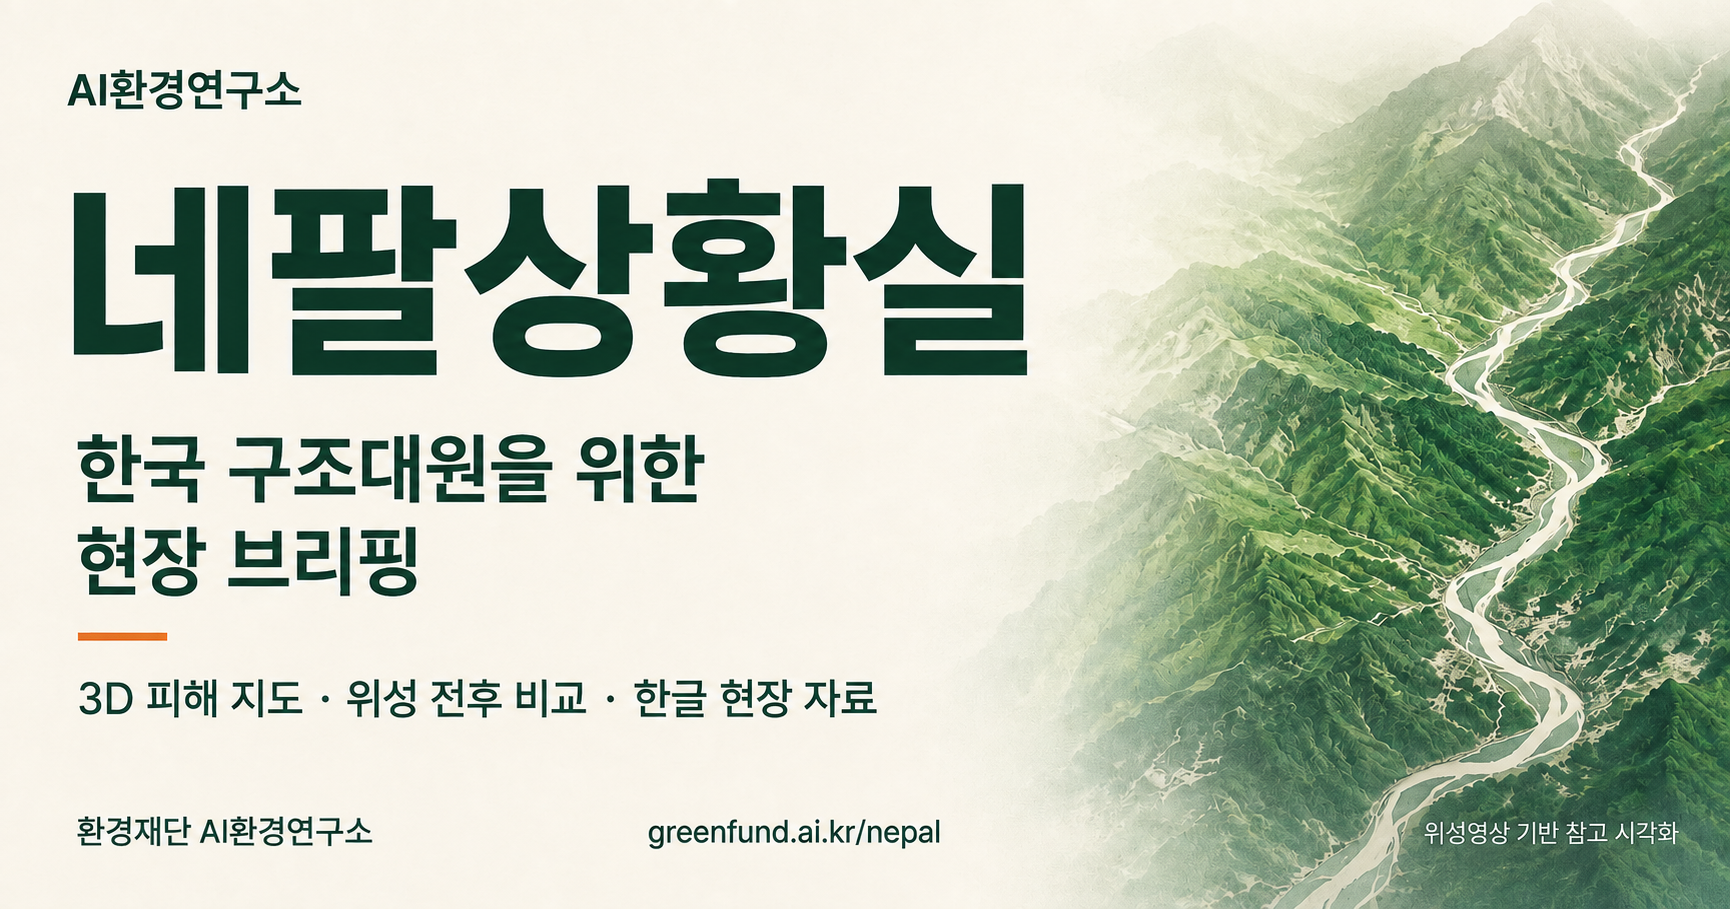
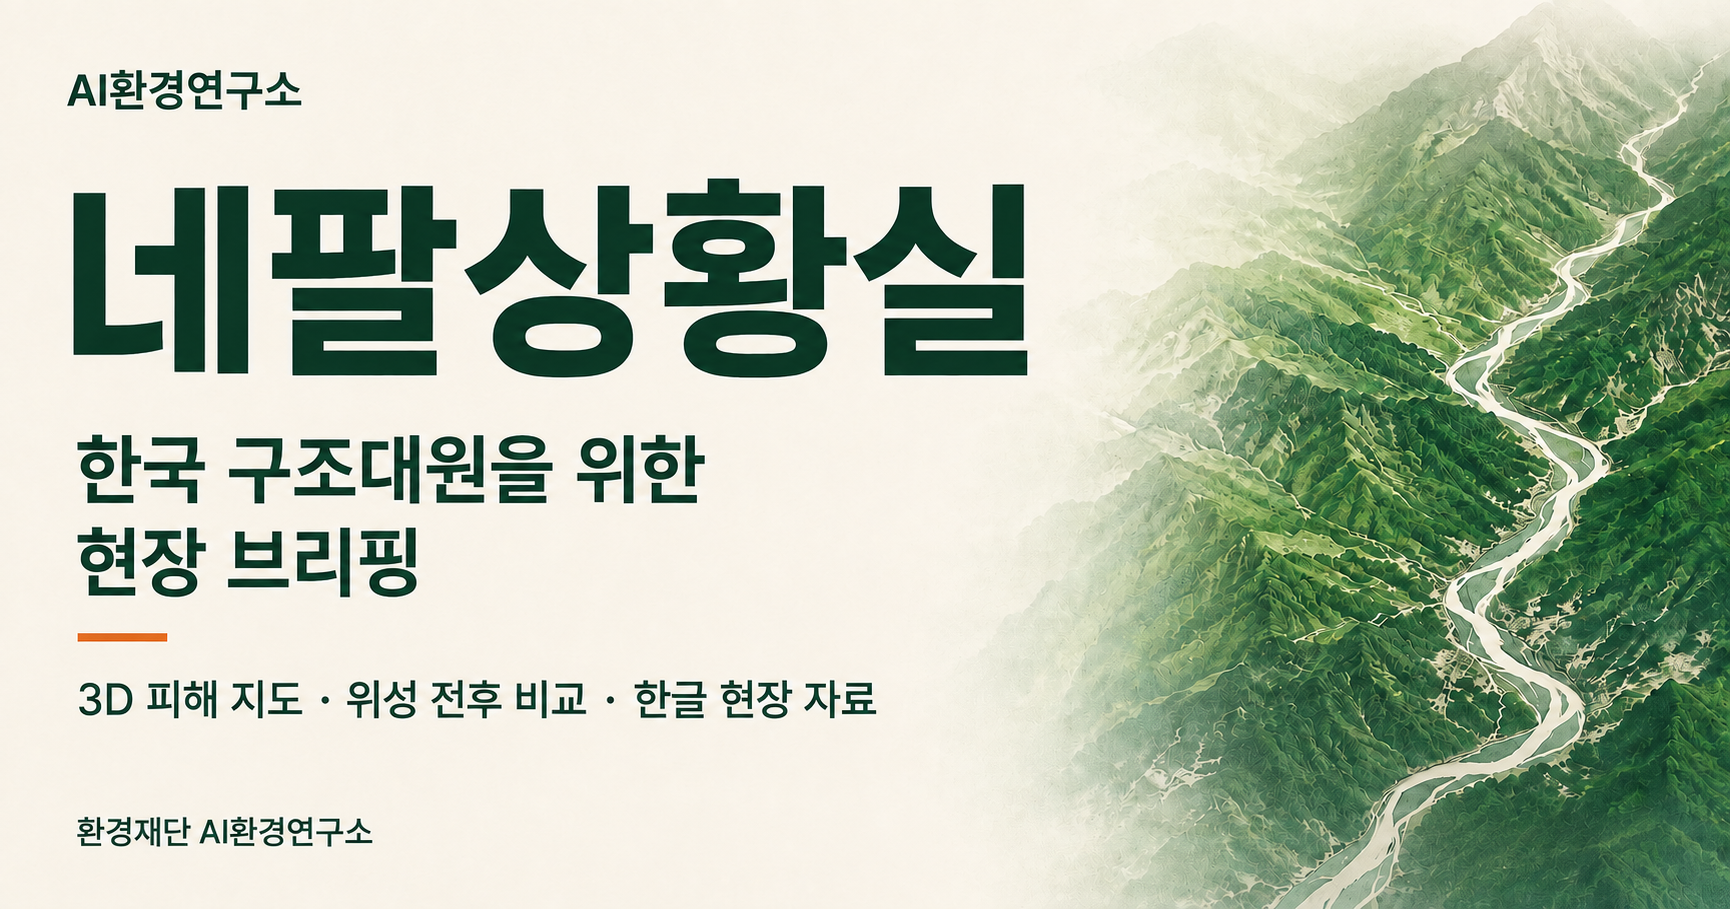
Add square Nepal thumbnail and remove image URL captions

diff --git a/greenproof/web/nepal/index.html b/greenproof/web/nepal/index.html
@@ -13,8 +13,8 @@
   <meta property="og:title" content="네팔상황실 | 한국 구조대원 현장 브리핑">
   <meta property="og:description" content="3D 피해 지도와 위성 전후 비교, 지역별 접근·위험·의료·연락 정보를 한글로 확인하세요. AI환경연구소.">
   <meta property="og:url" content="https://greenfund.ai.kr/nepal/">
-  <meta property="og:image" content="https://greenfund.ai.kr/nepal/og.png?v=2">
-  <meta property="og:image:secure_url" content="https://greenfund.ai.kr/nepal/og.png?v=2">
+  <meta property="og:image" content="https://greenfund.ai.kr/nepal/og.png?v=3">
+  <meta property="og:image:secure_url" content="https://greenfund.ai.kr/nepal/og.png?v=3">
   <meta property="og:image:type" content="image/png">
   <meta property="og:image:width" content="1730">
   <meta property="og:image:height" content="909">
@@ -22,7 +22,7 @@
   <meta name="twitter:card" content="summary_large_image">
   <meta name="twitter:title" content="네팔상황실 | 한국 구조대원 현장 브리핑">
   <meta name="twitter:description" content="3D 피해 지도와 위성 전후 비교, 지역별 접근·위험·의료·연락 정보를 한글로 확인하세요. AI환경연구소.">
-  <meta name="twitter:image" content="https://greenfund.ai.kr/nepal/og.png?v=2">
+  <meta name="twitter:image" content="https://greenfund.ai.kr/nepal/og.png?v=3">
   <meta name="twitter:image:alt" content="네팔상황실, 한국 구조대원을 위한 현장 브리핑이라는 문구와 산악 하천 참고 시각화.">
   <link rel="stylesheet" href="./style.css?v=3">
   <link rel="stylesheet" href="./response.css?v=3">

diff --git a/docs/integrations/greenfund-org-og-head.html b/docs/integrations/greenfund-org-og-head.html
@@ -8,8 +8,8 @@
 <meta property="og:title" content="AI환경연구소 | 환경재단">
 <meta property="og:description" content="AI와 공개 데이터로 환경 현장을 살펴봅니다. 네팔상황실, 맹그로브 성장 기록, 우리 동네 온실가스 배출을 한곳에서 확인하세요.">
 <meta property="og:url" content="https://greenfund.org/about/ai-environment-institute">
-<meta property="og:image" content="https://greenfund.ai.kr/nepal/og.png?v=2">
-<meta property="og:image:secure_url" content="https://greenfund.ai.kr/nepal/og.png?v=2">
+<meta property="og:image" content="https://greenfund.ai.kr/nepal/og.png?v=3">
+<meta property="og:image:secure_url" content="https://greenfund.ai.kr/nepal/og.png?v=3">
 <meta property="og:image:type" content="image/png">
 <meta property="og:image:width" content="1730">
 <meta property="og:image:height" content="909">
@@ -17,5 +17,5 @@
 <meta name="twitter:card" content="summary_large_image">
 <meta name="twitter:title" content="AI환경연구소 | 환경재단">
 <meta name="twitter:description" content="AI와 공개 데이터로 환경 현장을 살펴봅니다. 네팔상황실, 맹그로브 성장 기록, 우리 동네 온실가스 배출을 한곳에서 확인하세요.">
-<meta name="twitter:image" content="https://greenfund.ai.kr/nepal/og.png?v=2">
+<meta name="twitter:image" content="https://greenfund.ai.kr/nepal/og.png?v=3">
 <meta name="twitter:image:alt" content="한국 구조대원을 위한 네팔상황실 안내와 산악 하천 참고 시각화">

diff --git a/greenproof/web/index.html b/greenproof/web/index.html
@@ -12,13 +12,13 @@
 <meta property="og:title" content="네팔상황실 | 한국 구조대원 현장 브리핑">
 <meta property="og:description" content="3D 피해 지도와 위성 전후 비교, 지역별 접근·위험·의료·연락 정보를 한글로 확인하세요.">
 <meta property="og:url" content="https://greenfund.ai.kr/nepal/">
-<meta property="og:image" content="https://greenfund.ai.kr/nepal/og.png?v=2">
+<meta property="og:image" content="https://greenfund.ai.kr/nepal/og.png?v=3">
 <meta property="og:image:width" content="1730">
 <meta property="og:image:height" content="909">
 <meta name="twitter:card" content="summary_large_image">
 <meta name="twitter:title" content="네팔상황실 | 한국 구조대원 현장 브리핑">
 <meta name="twitter:description" content="3D 피해 지도와 위성 전후 비교, 지역별 접근·위험·의료·연락 정보를 한글로 확인하세요.">
-<meta name="twitter:image" content="https://greenfund.ai.kr/nepal/og.png?v=2">
+<meta name="twitter:image" content="https://greenfund.ai.kr/nepal/og.png?v=3">
 </head>
 <body><p><a href="/nepal/">네팔상황실 열기</a></p></body>
 </html>

diff --git a/tools/check_web.py b/tools/check_web.py
@@ -31,7 +31,7 @@ redirects = (WEB/'_redirects').read_text(encoding='utf-8')
 assert re.search(r'^/ /nepal/ 302$', redirects, re.M)
 assert 'http-equiv="refresh" content="0; url=/nepal/"' in entry
 assert 'href="https://greenfund.ai.kr/nepal/"' in entry
-assert 'https://greenfund.ai.kr/nepal/og.png?v=2' in entry
+assert 'https://greenfund.ai.kr/nepal/og.png?v=3' in entry
 assert '<script' not in entry and '<header' not in entry
 print('PASS homepage redirects directly to Nepal, with matching static fallback and sharing image')
 

diff --git a/docs/nepal-social-preview.md b/docs/nepal-social-preview.md
@@ -3,19 +3,32 @@
 - 적용 페이지: https://greenfund.ai.kr/nepal/
 - 사이트 명칭: AI환경연구소 (2026-09-06 웹 명칭과 공유 이미지 문구 변경)
 - 이미지: `greenproof/web/nepal/og.png` (1730 × 909, PNG)
-- 공개 이미지 URL: https://greenfund.ai.kr/nepal/og.png?v=2
+- 공개 이미지 URL: https://greenfund.ai.kr/nepal/og.png?v=3
 - OG/X 제목: 네팔상황실 | 한국 구조대원 현장 브리핑
 - OG/X 설명: 3D 피해 지도와 위성 전후 비교, 지역별 접근·위험·의료·연락 정보를 한글로 확인하세요. AI환경연구소.
-- 생성 방식: 내장 `image_gen` 도구, 초기 생성 1회 및 문구 편집 1회. CLI/API 대체 경로 사용 없음.
+- 생성 방식: 내장 `image_gen` 도구, 초기 생성 1회, 명칭 편집 1회, URL·하단 캡션 삭제 편집 1회. CLI/API 대체 경로 사용 없음.
 - 최종 편집본은 도구가 반환한 1730 × 909 RGB PNG를 그대로 사용했다. 추가 픽셀 편집이나 리사이즈 없이 HTML 이미지 크기 메타데이터를 실제 파일에 맞췄다.
 - 변경 문구: 상단 ‘AI환경연구소’, 하단 ‘환경재단 AI환경연구소’. 기존 구성과 다른 문구는 유지했다.
-- 기존 og.png 원본을 갱신했으며, 새 공유 설정은 `?v=2`를 사용한다. 배포 직후 v=1의 CDN 캐시에 이전 이미지가 남아 있어 환경재단 쪽 메타태그도 v=2로 갱신해야 즉시 반영된다. v=2 응답은 배포 파일 체크섬과 일치한다.
+- 기존 og.png 원본을 갱신했으며, 새 공유 설정은 `?v=3`를 사용한다. 배포 직후 v=1의 CDN 캐시에 이전 이미지가 남아 있어 환경재단 쪽 메타태그도 v=3로 갱신해야 즉시 반영된다. v=3 응답은 배포 파일 체크섬과 일치한다.
 - 참고 입력: `greenproof/web/nepal/data/map-detail/syapru-sentinel.webp` (2026-08-12 Sentinel-2, Copernicus/Element 84).
-- 이미지의 산악·하천은 원영상에서 영감을 얻은 편집 삽화다. 실제 피해 지점·좌표·구조 경로를 표시하거나 그 정확도를 주장하지 않는다. 카드에도 ‘위성영상 기반 참고 시각화’를 명시했다. 개인 이름·이메일·GPT 배지는 넣지 않았다.
+- 이미지의 산악·하천은 원영상에서 영감을 얻은 편집 삽화다. 실제 피해 지점·좌표·구조 경로를 표시하거나 그 정확도를 주장하지 않는다. 사용자의 요청으로 카드 안의 URL과 ‘위성영상 기반 참고 시각화’ 문구를 삭제했다. 삽화의 성격과 한계는 이 문서와 이미지 대체 텍스트에 남긴다. 개인 이름·이메일·GPT 배지는 넣지 않았다.
 - 검증: 한국어 문구·브랜드 시각 확인, PNG 실제 크기와 메타데이터 일치, 공유 URL의 공개 HTTP 응답 및 배포 파일 체크섬 비교. 브라우저 자동화 검사는 수행하지 않았다.
 - 규격 참고: https://ogp.me/ (Open Graph protocol).
 
-## 최종 문구 편집 프롬프트 (내장 image_gen)
+## 최종 URL·캡션 삭제 프롬프트 (내장 image_gen)
+
+```text
+Use case: precise-object-edit / text removal. Input image is the edit target.
+Keep the image landscape, same wide aspect ratio and size as the input.
+Make ONLY these two removals:
+- Remove the URL text "greenfund.ai.kr/nepal" completely.
+- Remove the caption "위성영상 기반 참고 시각화" completely.
+Fill those small text areas seamlessly with their existing cream background or existing mountain-and-river illustration.
+Do not replace them with any other text, badge or symbol. Do not introduce a border or frame.
+Preserve ALL other text exactly, preserving its font, position, size and color. Preserve the original main title, subtitle, supporting lines, any remaining original organization text, orange divider, image crop, terrain illustration, lighting and overall design. Do not change the names or wording anywhere else. Output one finished edited PNG.
+```
+
+## 명칭 편집 프롬프트 (이력)
 
 ```text
 Use case: text-localization.

diff --git a/docs/articles/ai-nepal-square-thumbnail.md b/docs/articles/ai-nepal-square-thumbnail.md
@@ -1,0 +1,46 @@
+# AI네팔상황실 정방형 썸네일
+
+- 용도: 네이버 프리미엄콘텐츠에 게시할 제작 취지 아티클의 1:1 썸네일.
+- 원고: [AI네팔상황실을 만든 이유](nepal-situation-room-purpose.md).
+- 이미지 파일: `greenproof/web/nepal/images/ai-nepal-square.png`.
+- 공개 주소: https://greenfund.ai.kr/nepal/images/ai-nepal-square.png
+- 제작 방식: 내장 `image_gen` 도구로 기존 가로형 OG 이미지의 구성을 정방형으로 재편집했다. CLI/API 대체 경로는 사용하지 않았다.
+- 명칭: 아티클에 맞춰 ‘AI네팔상황실’을 사용하고 기관명과 개인 이름은 넣지 않았다.
+- 산악·하천은 기존 카드의 편집 삽화를 사용한 참고 시각화이며, 실제 피해 위치나 구조 경로를 표시하지 않는다.
+- 정방형은 별도 PNG로 제공하며, 웹페이지의 OG에는 가로형 이미지를 사용한다.
+- 최신 요청에 따라 가로형과 정방형 모두 이미지 안의 URL 및 ‘위성영상 기반 참고 시각화’ 문구를 제거했다.
+- 규격: 1254 × 1254, RGB PNG. 생성 도구가 반환한 파일을 추가 리사이즈 없이 사용했다.
+
+## 최종 URL·캡션 삭제 프롬프트
+
+```text
+Use case: precise-object-edit / text removal. Input image is the edit target.
+Keep the image perfectly square 1:1, same square size as the input.
+Make ONLY these two removals:
+- Remove the URL text "greenfund.ai.kr/nepal" completely.
+- Remove the caption "위성영상 기반 참고 시각화" completely.
+Fill those small text areas seamlessly with their existing cream background or existing mountain-and-river illustration.
+Do not replace them with any other text, badge or symbol. Do not introduce a border or frame.
+Preserve ALL other text exactly, preserving its font, position, size and color. Preserve the original main title, subtitle, supporting lines, any remaining original organization text, orange divider, image crop, terrain illustration, lighting and overall design. Do not change the names or wording anywhere else. Output one finished edited PNG.
+```
+
+## 정방형 재구성 프롬프트 (이력)
+
+```text
+Use case: text-localization / editorial thumbnail adaptation.
+Input image 1 is the existing landscape social card to adapt.
+Create exactly ONE square 1:1 image, ideally 1200 x 1200 pixels, for a Naver Premium Content article thumbnail. Recompose the design for a square; do not stretch it or crop away the words. Preserve the supplied card's calm, serious editorial style, cream background, dark forest-green Korean typography, green Himalayan mountain folds and pale branching river illustration, and small restrained orange line accent. The terrain is an editorial reference illustration, not a precise rescue map.
+The accompanying article is now named "AI네팔상황실"; omit every institute/organization name and every GREEN PROOF label.
+Text to render, and ONLY this text:
+Largest main title, upper area: "AI네팔상황실"
+Large supporting subtitle on two lines:
+"한국 구조대원을 위한"
+"현장 브리핑"
+Smaller supporting text:
+"3D 피해 지도 · 위성 전후 비교"
+"한글 현장 자료"
+Small domain at bottom: "greenfund.ai.kr/nepal"
+Small illustration caption: "위성영상 기반 참고 시각화"
+Composition: Make the main title read immediately at a small square thumbnail size. Keep all typography in a comfortable 7% inset safe area. Use ample cream space behind the title and subtitle in the upper and left areas, and mountain-and-river illustration in the lower and right areas. Typography must not be covered by the mountains. No outer border, no browser UI, no rounded card frame, no added icons.
+Preserve the exact Korean spelling. Do not use "환경재단", "AI환경연구소", "GREEN PROOF", personal names, email, GPT badges, or any additional words. Do not depict or invent victims, damage locations, rescue routes, data points, or geographic coordinates. Output a finished, polished square PNG.
+```

diff --git a/docs/integrations/greenfund-org-og.md b/docs/integrations/greenfund-org-og.md
@@ -13,16 +13,16 @@
 - 페이지의 공개 JavaScript는 https://greenfund.ai.kr/ 를 iframe으로 표시한다.
 - 환경재단 서버 코드 저장소와 배포 설정은 아직 확인하지 못했다. 이 폴더는 적용용 자료이며, greenfund.org에 적용한 결과가 아니다.
 
-추가 확인: 환경재단 페이지의 OG 제목이 ‘네팔상황실 | 한국 구조대원 현장 브리핑’으로 바뀌었고, og:url도 해당 환경재단 페이지 주소로 설정돼 있다. 현재 og:image는 `https://greenfund.ai.kr/nepal/og.png?v=1`을 참조한다. 원본 파일은 수정했지만 배포 검증 시 v=1의 CDN 캐시에 이전 이미지가 남아 있었다. 현재 연결 계정으로 이 URL의 캐시 삭제를 시도했으나 인증 오류로 처리되지 않았다. 즉시 새 이미지를 적용하려면 아래 v=2 주소를 사용한다. 환경재단 쪽 코드는 이 저장소에서 변경하지 않았다.
+추가 확인: 환경재단 페이지의 OG 제목이 ‘네팔상황실 | 한국 구조대원 현장 브리핑’으로 바뀌었고, og:url도 해당 환경재단 페이지 주소로 설정돼 있다. 현재 og:image는 `https://greenfund.ai.kr/nepal/og.png?v=1`을 참조한다. 원본 파일은 수정했지만 배포 검증 시 v=1의 CDN 캐시에 이전 이미지가 남아 있었다. 현재 연결 계정으로 이 URL의 캐시 삭제를 시도했으나 인증 오류로 처리되지 않았다. 즉시 새 이미지를 적용하려면 아래 v=3 주소를 사용한다. 환경재단 쪽 코드는 이 저장소에서 변경하지 않았다.
 
 ## 적용할 정보
 
 - 제목: AI환경연구소 | 환경재단
 - 설명: AI와 공개 데이터로 환경 현장을 살펴봅니다. 네팔상황실, 맹그로브 성장 기록, 우리 동네 온실가스 배출을 한곳에서 확인하세요.
 - 대표 주소: https://greenfund.org/about/ai-environment-institute
-- 이미지: https://greenfund.ai.kr/nepal/og.png?v=2
+- 이미지: https://greenfund.ai.kr/nepal/og.png?v=3
 
-이미지는 현재 iframe 첫 화면인 네팔상황실의 1730 × 909 PNG다. 상단 명칭은 ‘AI환경연구소’, 하단 문구는 ‘환경재단 AI환경연구소’로 갱신했다. og.png 경로는 유지하며, 새 설정에는 캐시 버전 v=2를 사용한다. v=2의 실제 HTTP 응답과 파일 체크섬을 확인했다. 환경재단 페이지가 기존 v=1 URL을 사용한다면 og:image와 twitter:image를 v=2 주소로 함께 갱신하고 공유 서비스의 캐시를 새로 읽게 한다.
+이미지는 현재 iframe 첫 화면인 네팔상황실의 1730 × 909 PNG다. 상단 명칭은 ‘AI환경연구소’, 하단 문구는 ‘환경재단 AI환경연구소’로 갱신했다. og.png 경로는 유지하며, 새 설정에는 캐시 버전 v=3를 사용한다. v=3의 실제 HTTP 응답과 파일 체크섬을 확인했다. 환경재단 페이지가 기존 v=1 URL을 사용한다면 og:image와 twitter:image를 v=3 주소로 함께 갱신하고 공유 서비스의 캐시를 새로 읽게 한다.
 
 ## 환경재단 홈페이지 담당자 적용 절차
 
